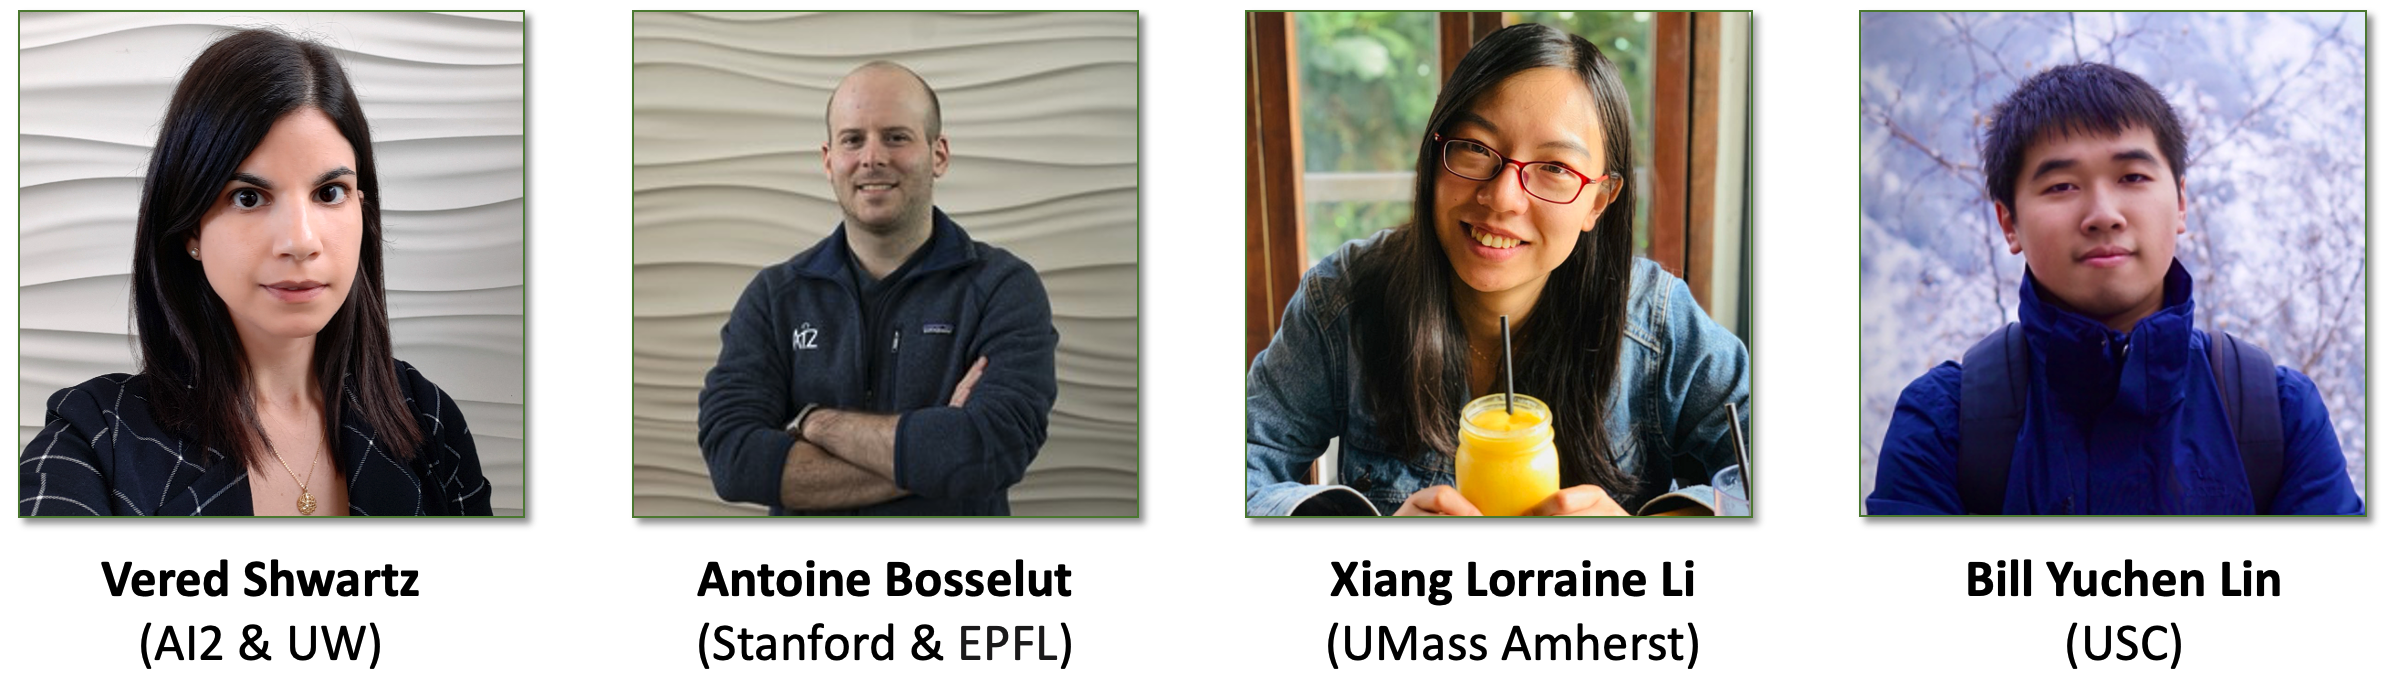
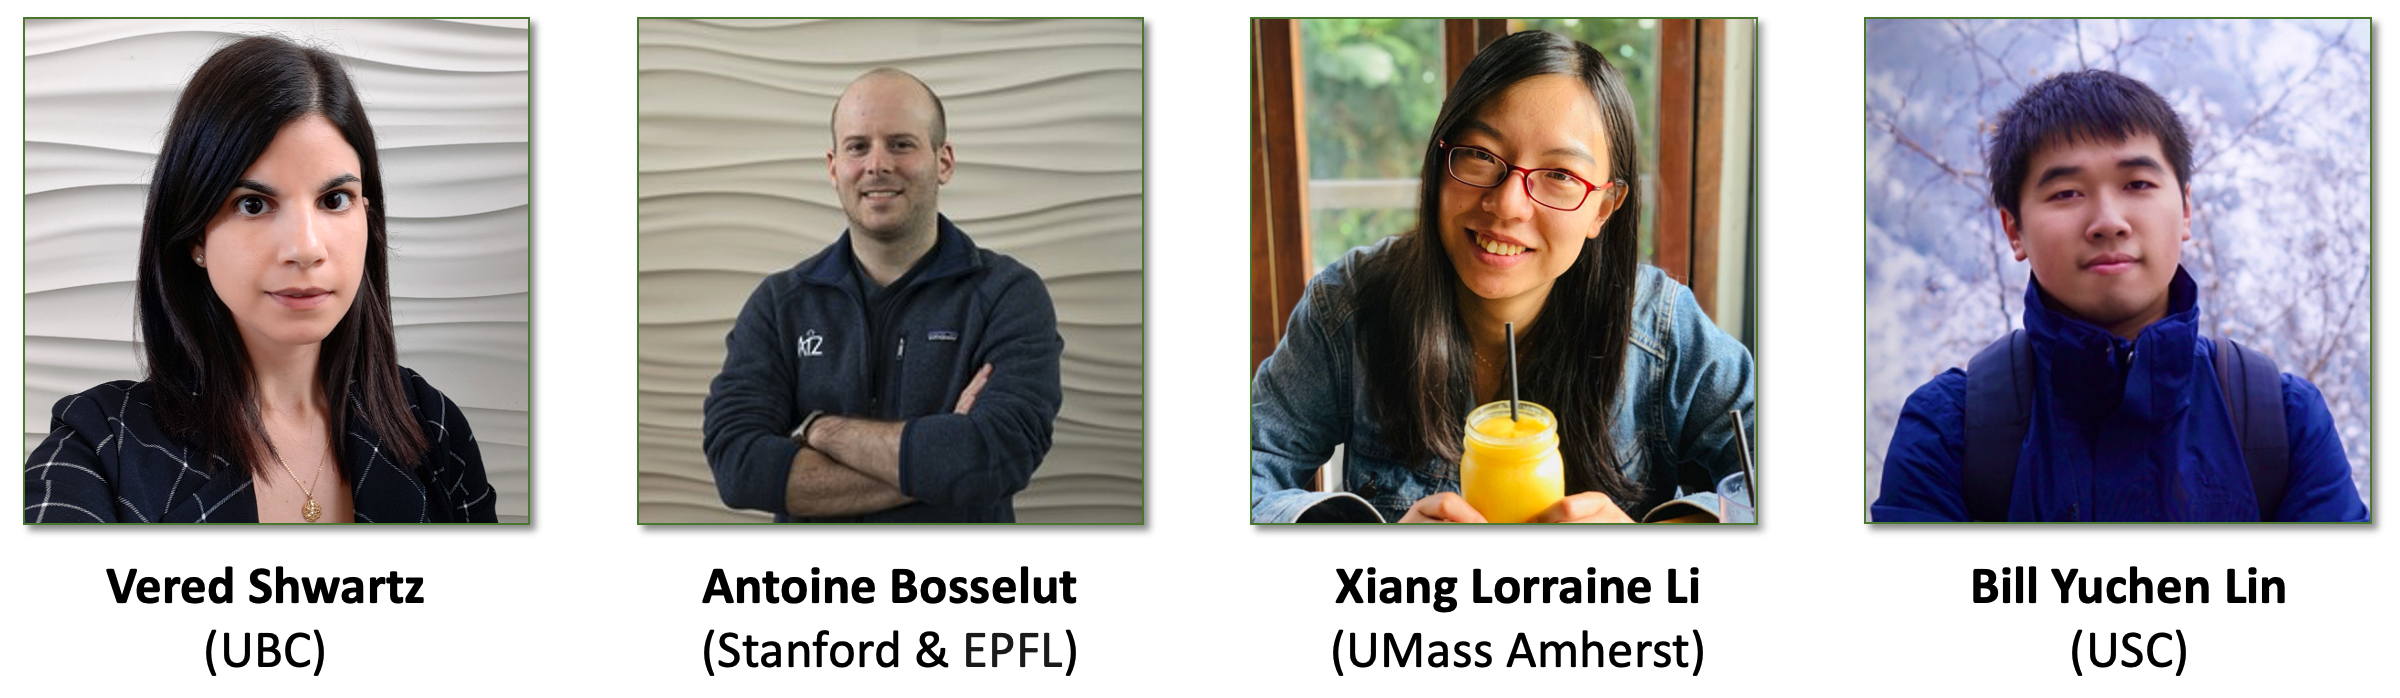
update ubc

diff --git a/docs/index.md b/docs/index.md
@@ -131,7 +131,7 @@ TBD
  
 <details markdown="block">
   <summary>
-    <a href="https://vered1986.github.io/" target="_blank"><strong><em>Vered Shwartz</em></strong></a>, Allen Institute for AI (AI2) & the University of Washington.
+    <a href="https://vered1986.github.io/" target="_blank"><strong><em>Vered Shwartz</em></strong></a>, University of British Columbia.
   </summary>
   {: .fs-3 .fw-500 .text-blue-300}
 <table><td>
